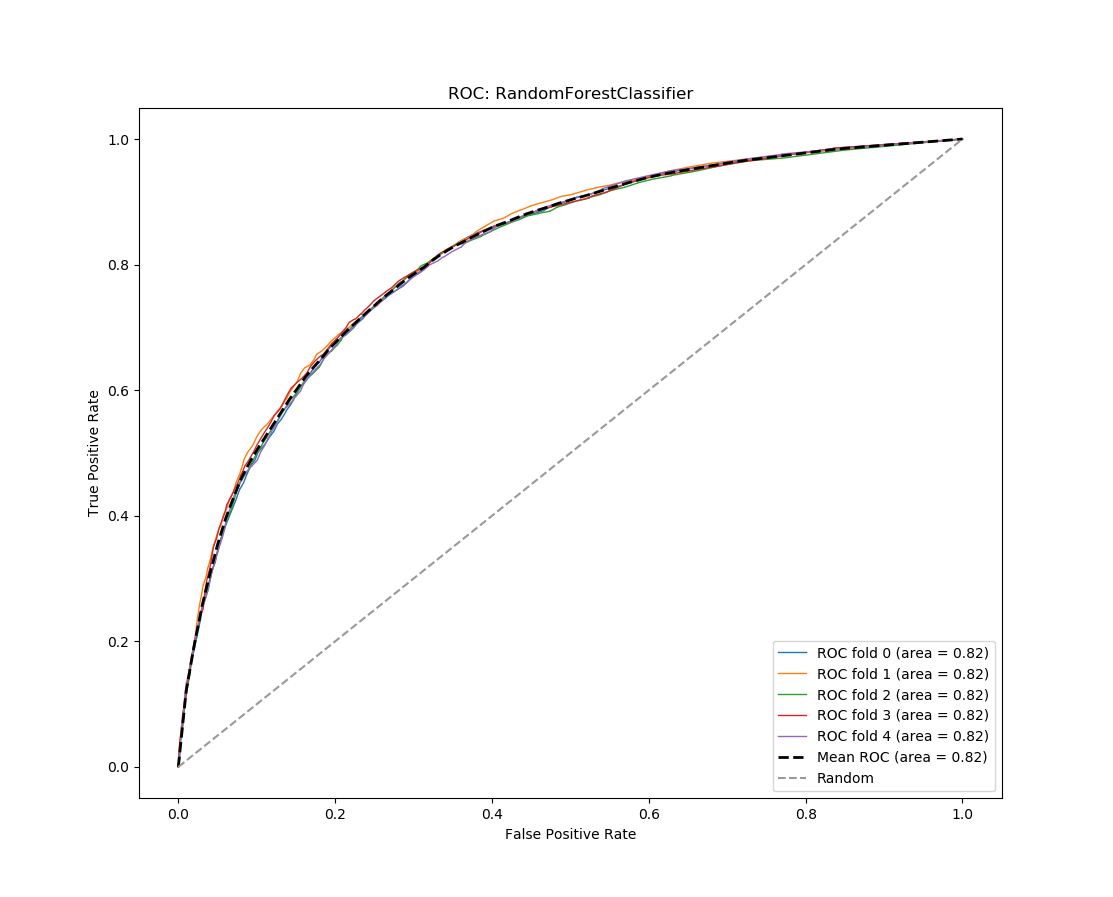
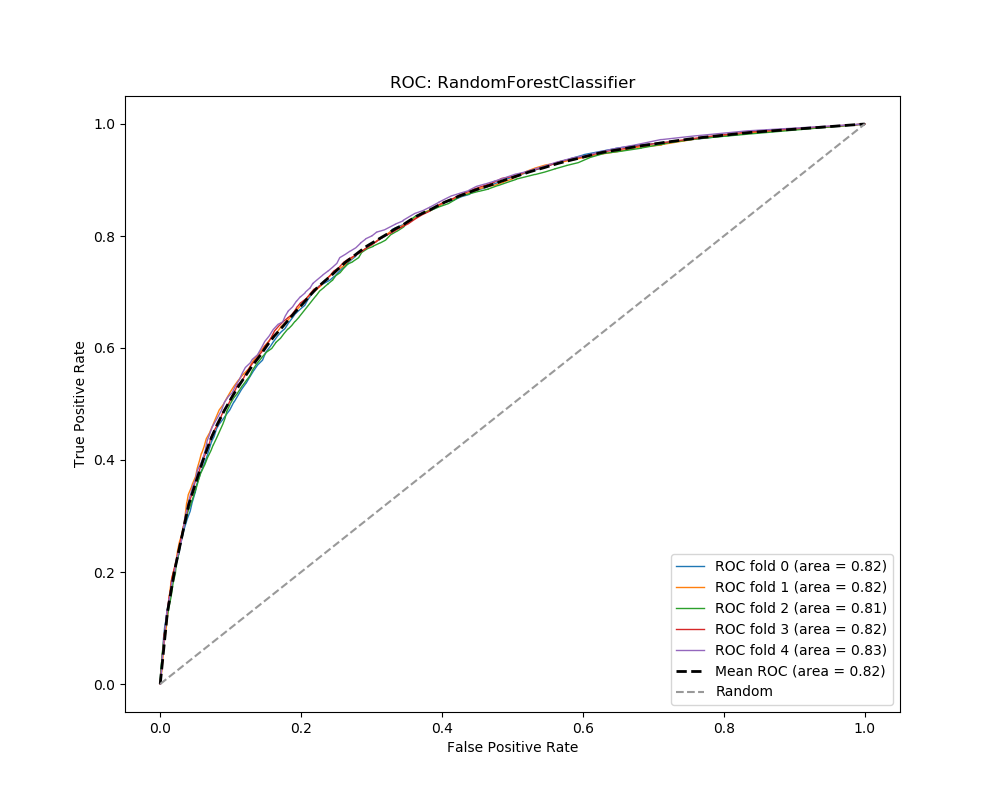
gb roc and readme update

diff --git a/src/nathan.py b/src/nathan.py
@@ -1,4 +1,4 @@
-from sklearn.ensemble import RandomForestClassifier
+from sklearn.ensemble import RandomForestClassifier, GradientBoostingClassifier
 from sklearn.model_selection import train_test_split, KFold
 import sklearn.metrics as metrics
 
@@ -24,10 +24,20 @@ X = df_.drop(['churn'], axis=1).values
 X_train, X_test, y_train, y_test = train_test_split(X, y,
                                                 test_size=.2, random_state=42)
 
+# Random Forest
 rf = RandomForestClassifier(n_estimators=100, random_state=1, oob_score=True,
                             bootstrap=True)
-fig, ax = plt.subplots(figsize=(15,8))
+fig, ax = plt.subplots(figsize=(10,8))
 plot_roc(X, y, rf, fig, title='RandomForestClassifier')
 
 fig.show()
 fig.savefig('images/rf_roc.png')
+
+# Gradient Boosting
+gb = GradientBoostingClassifier(n_estimators=100, random_state=1,
+                                learning_rate = 0.1)
+fig, ax = plt.subplots(figsize=(10,8))
+plot_roc(X, y, rf, fig, title=gb.__class__.__name__)
+
+fig.show()
+fig.savefig('images/gb_roc.png')

diff --git a/readme.md b/readme.md
@@ -1,11 +1,3 @@
-## Case Study
-
-Today we are going to use all the skills we have learned to tackle a real
-problem in industry. The problem is churn prediction with a ride-sharing
-company in San Francisco.  Since the data is sourced from a real company, we
-ask you not to share the dataset. See more about the problem in
-[group.md](group.md).
-
 # Rideshare Churn
 ### Aidan Jared, Derek Lorenzen, Nathan James
 
@@ -78,11 +70,27 @@ and the confusion matrix
 
 these values show that our model does perform sligtly worse on the test data as expected but it does perform very well for the amount of data we have.
 
-## Roc Curve
+## Gradient Boosting
 
+## Roc Curve
+The receiver operating characteristic is similar between cross-validation folds and between models. The dataset is relatively large so the small variance between the tests makes sense and the model is
 
 ![roc_rf](images/rf_roc.png)
 
-## Boosting
+![roc_gb](images/gb_roc.png)
+
 
 ## Conclusion
+The Random Forest and Gradient Boosting models performed similarly.
+
+
+
+
+
+## Case Study
+
+Today we are going to use all the skills we have learned to tackle a real
+problem in industry. The problem is churn prediction with a ride-sharing
+company in San Francisco.  Since the data is sourced from a real company, we
+ask you not to share the dataset. See more about the problem in
+[group.md](group.md).
